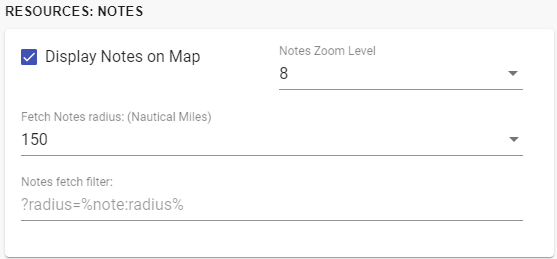
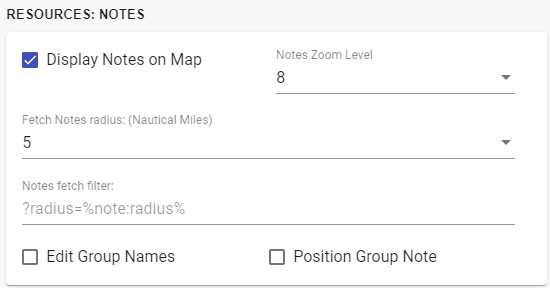
v1.4.0 release

diff --git a/src/assets/help/index.html b/src/assets/help/index.html
@@ -48,11 +48,12 @@
                 <li><a href="#server">Signal K Server</a></li>
                 <li><a href="#display">Display</a></li>
                 <li><a href="#navdata">Navigation</a></li>                  
-                <li><a href="#resources">Resources</a></li>   
-                <li><a href="#aistargets">Vessels</a></li> 
-                <li><a href="#anchor">Anchor Watch</a></li>
-                <li><a href="#alarms">Alarms</a></li>
-                <li><a href="#playback">Playback</a></li>
+                <li><a href="#resources">Resources</a></li> 
+                <li><a href="#menus">Menus</a></li>
+                <li><a href="#aistargets">- Vessels</a></li> 
+                <li><a href="#anchor">- Anchor Watch</a></li>
+                <li><a href="#alarms">- Alarms</a></li>
+                <li><a href="#playback">- Playback</a></li>
                 <li><a href="#settings">Settings</a></li>
                 <li><a href="https://github.com/SignalK/freeboard-sk/" target="_fb">
                     <i class="fi-social-github"></i> GitHub</a>
@@ -258,15 +259,16 @@
             <div class="panel" id="resources">
                 <h4>Resources</h4>
                 <p>
-                    Freeboard provides functionality for Route, Waypoint and Chart resources.
-                    <br>
+                    Freeboard provides functionality for in-built Signal K resource types:
+                    routes, waypoints, charts, notes and regions .
+                    <hr>
 
                     <li class="nobullet"><i class="material-icons">directions</i>
                         <b>Routes:</b>
                         Displays a list of available Routes.
                     </li> 
                     <br>
-                    <div style="display:flex;;flex-wrap: wrap;">
+                    <div style="display:flex;flex-wrap: wrap;">
                         <div><img src="./img/route_list.png" style="max-width:250px;"/></div>
                         <div style="padding-left:15px;">
                             <li><b>Filter Routes:</b> Type into the text box to filter the list of routes.</li>
@@ -288,13 +290,14 @@
                             <li><b>Properties</b> Click <i class="material-icons">info_outline</i> to edit route Name and Description.</li> 
                         </div>
                     </div>       
-                    <br>                                    
+                    <hr>  
+
                     <li class="nobullet"><i class="material-icons">location_on</i>
                         <b>Waypoints:</b>
                         Displays a list of available Waypoints.
                     </li>
                     <br>
-                    <div style="display:flex;;flex-wrap: wrap;">
+                    <div style="display:flex;flex-wrap: wrap;">
                         <div><img src="./img/waypoint_list.png" style="max-width:250px;"/></div>
                         <div style="padding-left:15px;">
                             <li><b>Filter Waypoints:</b> Type into the text box to filter the list of waypoints.</li>
@@ -314,23 +317,65 @@
                     <br>
                     Additionally, you can click on both Routes and Waypoints to display
                     an information window with available actions.<br>
+                    <div style="padding-left:15px;">
+                        <li>
+                            <b>Move:</b> 
+                            Clicking <i class="material-icons">touch_app</i> allows waypoints and route points to be re-positioned.
+                        </li>
+                    </div>                     
                     <img src="./img/route_popover.png"/>&nbsp;&nbsp;
-                    <img src="./img/wpt_popover.png"/>
-                    <br>&nbsp;<br>                   
-                    <li class="nobullet"><i class="material-icons">edit</i>
-                        <b>Draw Menu:</b>
-                        The Draw menu is where you will find options to:
-                        <li>Draw a Route</li>
-                        <li>Add Waypoint at the current Vessel position</li>
-                        <li>Drop Waypoint on the map</b></li>
-                        <li>Measure distances</li>
-                    </li>  
-                    <br>  
-                    <li class="nobullet"><i class="material-icons">menu</i>
-                        <b>Main Menu:</b>
-                        The Main menu contains links to the following additional features:
+                    <img src="./img/wpt_popover.png"/>    
+                    <hr>
+
+                    <li class="nobullet"><i class="material-icons">local_offer</i>
+                        <b>Notes:</b>
+                        Displays a list of available Notes.
                     </li> 
-                    <br>                                    
+                    <br>
+                    <div style="display:flex;flex-wrap: wrap;">
+                        <div><img src="./img/note_list.png" style="max-width:250px;"/></div>
+                        <div style="padding-left:15px;">
+                            <li><b>Filter Notes:</b> Type into the text box to filter the list of notes.</li>
+                            <li><b>Draft Notes: </b> Click <i class="material-icons">border_color</i> to display only 
+                                draft notes in the list.<br>
+                            <li><b>Display Notes:</b> Check the checkbox to display notes on the map.</li>
+     
+                            <li><b>Group: </b> Clicking <i class="material-icons">styles</i> will display a list of notes 
+                                in the same group.
+                            </li>
+                           
+                            <li><b>Properties</b> Click <i class="material-icons">info_outline</i> to open the 
+                                note information / editor screen.
+                            </li> 
+                        </div>
+                    </div>  
+                    <i>See <a href="#settings">Settings</a> for configuring note display.</i>
+                    <br>&nbsp;
+                    <div>
+                        <b>Note Properties:</b><br>
+                        Freeboard uses specfic key / value pairs that are defined within the 
+                        <code>properties: {}</code> block of a note:
+                        <br>&nbsp;
+                        <li>
+                            <b>draft</b> <i>(boolean)</i>: Indicates whether the note is in draft mode.
+                            Used by the server to determine the visibility or scope of where the note is made
+                            available.
+                        </li>
+                        <li>
+                            <b>readOnly</b> <i>(boolean)</i>: Used by Freeboard (when meta._attr is not available) 
+                            to determine whther the note is editable.
+                        </li>
+                        <br>
+                        <i>Example:</i>
+                        <code>
+                            properties: {
+                                draft: true,
+                                readOnly: false
+                            }
+                        </code>
+                    </div>     
+                    <hr>
+
                     <li class="nobullet"><i class="material-icons">map</i>
                         <b>Charts:</b> 
                         Displays a list of available Charts.
@@ -351,12 +396,49 @@
                             Charts are displayed in descending order of scale to ensure more detailed 
                             charts are on top.
                         </div>
-                    </div>  
-                    <br>                        
-                    <li class="nobullet"><img src="../img/gpx_black.png" style="width:36px;"/>
-                        <b>Load from GPX:</b>
-                        Load Route and Waypoint resources from GPX file. 
+                    </div> 
+                </p>                 
+            </div>	           
+
+            <div class="panel" id="menus">
+                <h4>Draw Menu</h4>
+                <p>
+                    <li class="nobullet"><i class="material-icons">edit</i>
+                        The Draw menu is where you will find options to:
                     </li>  
+                    <br>
+                    <div style="display:flex;flex-wrap: wrap;">
+                        <div><img src="./img/draw_menu.png" style="max-width:250px;"/></div>
+                        <div style="padding-left:15px;">                        
+                            <li>
+                                <b>Draw a Route</b>: Create a route by clicking locations on the map
+                            </li>
+                            <li>
+                                <b>Drop Waypoint</b>: Create a waypoint by clicking a location on the map
+                            </li>
+                            <li>
+                                <b>Add Note</b>: Create a note at a specific location by clicking on the map
+                            </li>
+                            <li>
+                                <b>Draw Region + Note</b>: Create a region and attach a <i>note</i> by 
+                                clicking locations on the map to define the region.
+                            </li>
+                            <li>
+                                <b>Measure</b>: Measure distances by clicking locations on the map.
+                            </li>
+                        </div>
+                    </div>                
+                </p>
+            </div>
+
+            <div class="panel" id="gpx">
+                <h4>Load from GPX</h4>
+                <p> 
+                    <li class="nobullet"><i class="material-icons">menu</i>
+                        <b>Main Menu:</b>
+                        Access the <img src="../img/gpx_black.png" style="width:36px;"/></i> 
+                        <b>Load from GPX</b> option from the Main menu.
+                    </li>                      
                     <br>
                     <div style="display:flex;flex-wrap: wrap;">
                         <div><img src="./img/gpx_load.png" style="max-width:250px;"/></div>
@@ -364,7 +446,7 @@
                             After selecting a GPX file from the Open File dialog you will be
                             presented with a screen that will allow you to select some or all
                             of the Route and Waypoint resources contained in the file.<br>
-        
+
                             <li><b>Waypoints:</b> Click the checkbox to select all Waypoints or
                                 expand the list and select the Waypoints to import.
                             </li>
@@ -375,17 +457,17 @@
                             After selecting the resources click <b>Load Selected</b> to load the
                             resources onto the Signal K server.
                         </div>
-                    </div>
-                </p>                 
-            </div>	           
+                    </div>    
+                </p>
+            </div>
 
             <div class="panel" id="anchor">
                 <h4>Anchor Watch</h4>
                 <p>
-                        <li class="nobullet"><i class="material-icons">menu</i>
-                            <b>Main Menu:</b>
-                            Access the <i class="fi-anchor" style="font-size:20pt;"></i> <b>Anchor Watch</b> option from the Main menu.
-                        </li> 
+                    <li class="nobullet"><i class="material-icons">menu</i>
+                        <b>Main Menu:</b>
+                        Access the <i class="fi-anchor" style="font-size:20pt;"></i> <b>Anchor Watch</b> option from the Main menu.
+                    </li> 
                 </p>
                 <div style="display:flex;flex-wrap: wrap;">
                     <div><img src="./img/anchor_watch.png" style="max-width:250px;"/></div>
@@ -657,7 +739,18 @@
                             the number of Notes records returned or to only return Notes in a particular area. <br>
                             The string can contain <i>%Tokens%</i> to specify specific values.<br>
                             <i>e.g. ?position=%map:longitude%,%map:latitude%&radius=%note:radius%</i>
-                        </li>                                                 
+                        </li>   
+                        <li><b>Edit Group Names</b>: 
+                            By default the <i>group</i> attribute of a note will not be available 
+                            in the note editor screen.<br>
+                            Check this box if you want to be able to edit the <i>group</i> attribute.
+                        </li>       
+                        <li><b>Position Group Note</b>: 
+                            By default adding a new note to a <i>group</i> 
+                            will not prompt you for the psoition of the note.<br>
+                            Checking this box will prompt you to place the note by clicking
+                            on the map.
+                        </li>                                                                                          
                     </ul>
 
                     <b>Parameter Tokens</b> are text enclosed in <b>%</b>.<br>

diff --git a/src/app/app.component.ts b/src/app/app.component.ts
@@ -772,7 +772,7 @@ export class AppComponent {
             GeoUtils.destCoordinate(
                 this.display.vessels.self.position[1],
                 this.display.vessels.self.position[0],
-                this.display.vessels.self.heading,
+                this.display.map.vesselRotation,
                 sog * offset
             )
         ];
@@ -792,7 +792,7 @@ export class AppComponent {
 
         let ca= (this.app.config.map.northup) ? 
             this.display.vessels.self.wind.awa :
-            this.display.vessels.self.wind.awa + this.display.vessels.self.heading;
+            this.display.vessels.self.wind.awa + this.display.map.vesselRotation;
 
         this.display.vesselLines.awa= [
             this.display.vessels.self.position, 
@@ -800,7 +800,7 @@ export class AppComponent {
                 this.display.vessels.self.position[1],
                 this.display.vessels.self.position[0],
                 ca,
-                (this.display.vessels.self.heading) ? aws * offset : 0
+                (this.display.map.vesselRotation) ? aws * offset : 0
             )
         ];        
         
@@ -1214,7 +1214,7 @@ export class AppComponent {
         }
         // ** calc distance from new map center to lastGet
         let d= GeoUtils.distanceTo(this.app.data.lastGet, this.app.config.map.center )
-        this.app.debug(`distance: ${d}`);
+        this.app.debug(`distance map moved: ${d}`);
         // ** if d is more than half the getRadius
         let cr= (this.app.config.units.distance=='ft') ? 
             Convert.nauticalMilesToKm(this.app.config.resources.notes.getRadius) * 1000:
@@ -1671,7 +1671,7 @@ export class AppComponent {
         this.processVessel(d,v);
 
         // ** vessel on map rotation
-        this.display.map.vesselRotation= (typeof d.heading!== 'undefined') ? d.heading : (d.cog || 0);
+        this.display.map.vesselRotation= (!d.heading && typeof d.cog!== 'undefined') ? d.cog : (d.heading || 0);
 
         // ** add to true / magnetic selection list
         if( v.path=='navigation.headingMagnetic' && 
@@ -1748,8 +1748,6 @@ export class AppComponent {
             d.headingMagnetic= v.value;
             if(this.app.useMagnetic) { d.heading= v.value }         
         }
-
-        d.heading= (!d.heading && d.cog) ? d.cog : d.heading;
 
         if(v.path=='navigation.speedOverGround') { d.sog= v.value }
         if( v.path=='navigation.position') {

diff --git a/src/app/app.info.ts b/src/app/app.info.ts
@@ -13,8 +13,8 @@ export class AppInfo extends Info {
 
     private DEV_SERVER= {
         host: null,     // host name || ip address
-        port: null, // port number
-        ssl: false       // true || false
+        port: null,     // port number
+        ssl: false                       
     }
 
     public hostName;
@@ -93,7 +93,7 @@ export class AppInfo extends Info {
             },
             resources: {    // ** resource options
                 notes: {
-                    rootFilter: '',     // param string to provide record filtering
+                    rootFilter: '?position=%map:latitude%,%map:longitude%&dist=%note:radius%',     // param string to provide record filtering
                     getRadius: 20,      // radius (NM/km) within which to return notes
                     groupNameEdit: false,
                     groupRequiresPosition: false
@@ -210,7 +210,7 @@ export class AppInfo extends Info {
             if(typeof this.config.resources === 'undefined') {
                 this.config.resources= { 
                     notes: {
-                        rootFilter: '',     
+                        rootFilter: '?position=%map:latitude%,%map:longitude%&dist=%note:radius%',     
                         getRadius: 20,     
                         groupNameEdit: false,
                         groupRequiresPosition: false

diff --git a/src/app/lib/skresources/resources.service.ts b/src/app/lib/skresources/resources.service.ts
@@ -834,7 +834,7 @@ export class SKResources {
         let rf= (params) ? params : this.app.config.resources.notes.rootFilter;
         rf= this.processTokens(rf);
         if(rf && rf[0]!='?') { rf='?' + rf }
-        this.app.debug(rf);
+        this.app.debug(`${rf}`);
 
         let resRegions= this.getRegions(rf).pipe( catchError(error => of(error)) );
         let resNotes= this.signalk.api.get(`/resources/notes${rf}`);
